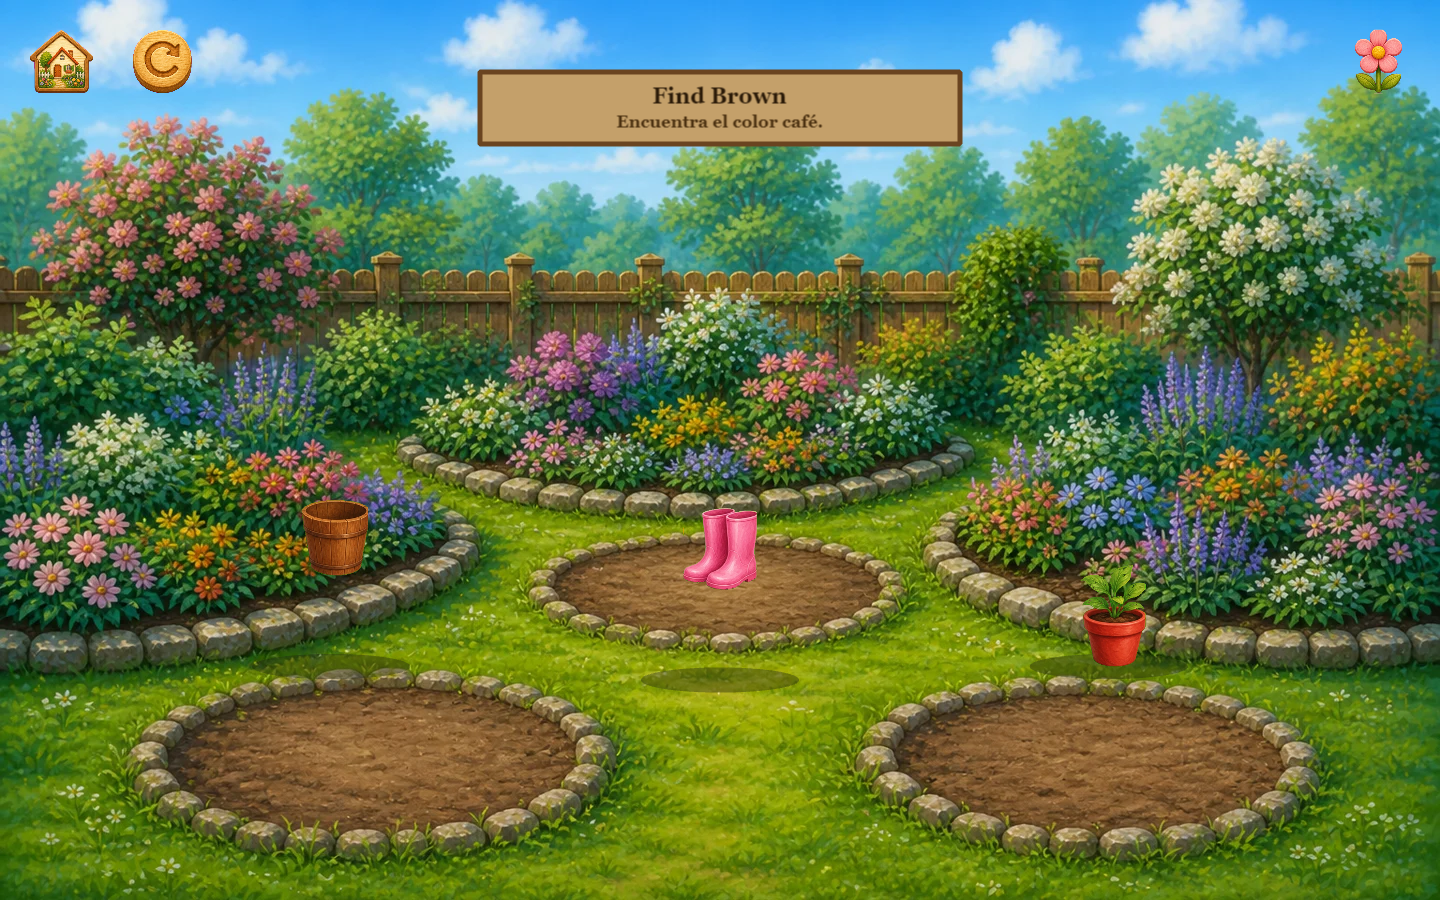
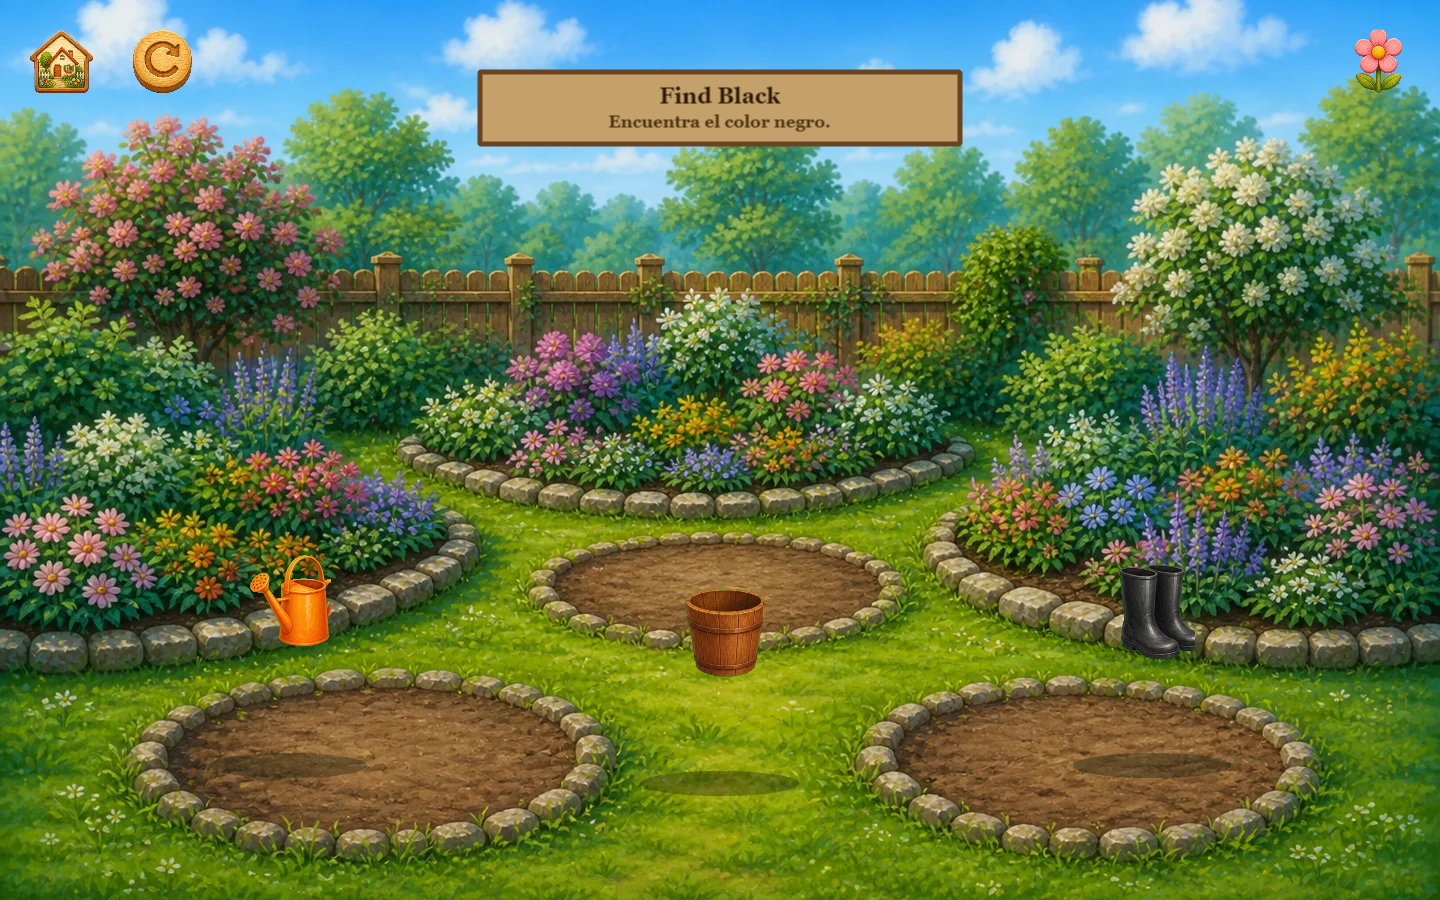
Place Color Garden choices in empty soil-bed triangle at toddler scale.

diff --git a/app/phaser-poc/game/scenes/ColorGardenScene.ts b/app/phaser-poc/game/scenes/ColorGardenScene.ts
@@ -80,8 +80,45 @@ export class ColorGardenScene extends ChoiceScene {
 
   protected choiceTargetHeightPx(): number | null {
     const spec = COLOR_CHOICE_SIZE[this.aspect];
-    const fromFrac = this.aspect === "landscape" ? this.worldH * 0.24 : this.worldH * 0.185;
+    const fromFrac = this.aspect === "landscape" ? this.worldH * 0.26 : this.worldH * 0.2;
     return Math.min(spec.max, Math.max(spec.min, Math.round(fromFrac)));
+  }
+
+  /** Equal visual weight: same display height for every prop; large soft soil shadow. */
+  protected placeChoices() {
+    const slots = this.choiceSlots();
+    const targetH = this.choiceTargetHeightPx() ?? this.worldH * 0.22;
+    const touch = this.minTouchPx();
+
+    this.choices.forEach((item, i) => {
+      const slot = slots[i];
+      const p = { x: slot.x * this.worldW, y: slot.y * this.worldH };
+
+      this.add
+        .ellipse(p.x, p.y - 6, targetH * 0.85, targetH * 0.22, 0x1a2010, 0.4)
+        .setDepth(4);
+
+      const img = this.add.image(p.x, p.y, item.texture).setOrigin(0.5, 1).setDepth(5);
+      const aspect = img.width / Math.max(1, img.height);
+      img.setDisplaySize(targetH * aspect, targetH);
+
+      const hit = Math.max(touch, img.displayWidth * 1.08, img.displayHeight * 1.08);
+      img.setInteractive(
+        new Phaser.Geom.Rectangle(-hit / 2, -hit, hit, hit),
+        Phaser.Geom.Rectangle.Contains,
+      );
+      img.setData("choiceId", item.id);
+      img.setData("slotIndex", i);
+      img.on("pointerdown", () => this.pick(item, img));
+      this.sprites.push(img);
+
+      if (this.showTouchDebug) {
+        this.add
+          .rectangle(p.x, p.y - hit / 2, hit, hit, 0x00ff88, 0.22)
+          .setStrokeStyle(3, 0x00cc66, 0.9)
+          .setDepth(40);
+      }
+    });
   }
 
   protected celebrationMs(): number {

diff --git a/app/phaser-poc/game/layouts.ts b/app/phaser-poc/game/layouts.ts
@@ -41,19 +41,20 @@ export const CHOICE_SLOTS: Record<PocAspect, [Norm, Norm, Norm]> = {
 };
 
 /**
- * Color Garden — feet anchors in the center of each front soil bed
- * (left / center / right). Calibrated to cover-mode mural at 1440×900 / 390×844.
+ * Color Garden — feet anchors in the three empty soil beds.
+ * Landscape mural: front-left, mid-center, front-right (triangle).
+ * Portrait mural: left, right, bottom-center (inverted triangle).
  */
 export const COLOR_BED_SLOTS: Record<PocAspect, [Norm, Norm, Norm]> = {
   landscape: [
-    { x: 0.2, y: 0.855, scale: 1 },
-    { x: 0.5, y: 0.875, scale: 1 },
-    { x: 0.8, y: 0.855, scale: 1 },
+    { x: 0.22, y: 0.9, scale: 1 },
+    { x: 0.5, y: 0.73, scale: 1 },
+    { x: 0.78, y: 0.9, scale: 1 },
   ],
   portrait: [
-    { x: 0.28, y: 0.62, scale: 1 },
-    { x: 0.72, y: 0.62, scale: 1 },
-    { x: 0.5, y: 0.84, scale: 1 },
+    { x: 0.26, y: 0.6, scale: 1 },
+    { x: 0.74, y: 0.6, scale: 1 },
+    { x: 0.5, y: 0.86, scale: 1 },
   ],
 };
 
